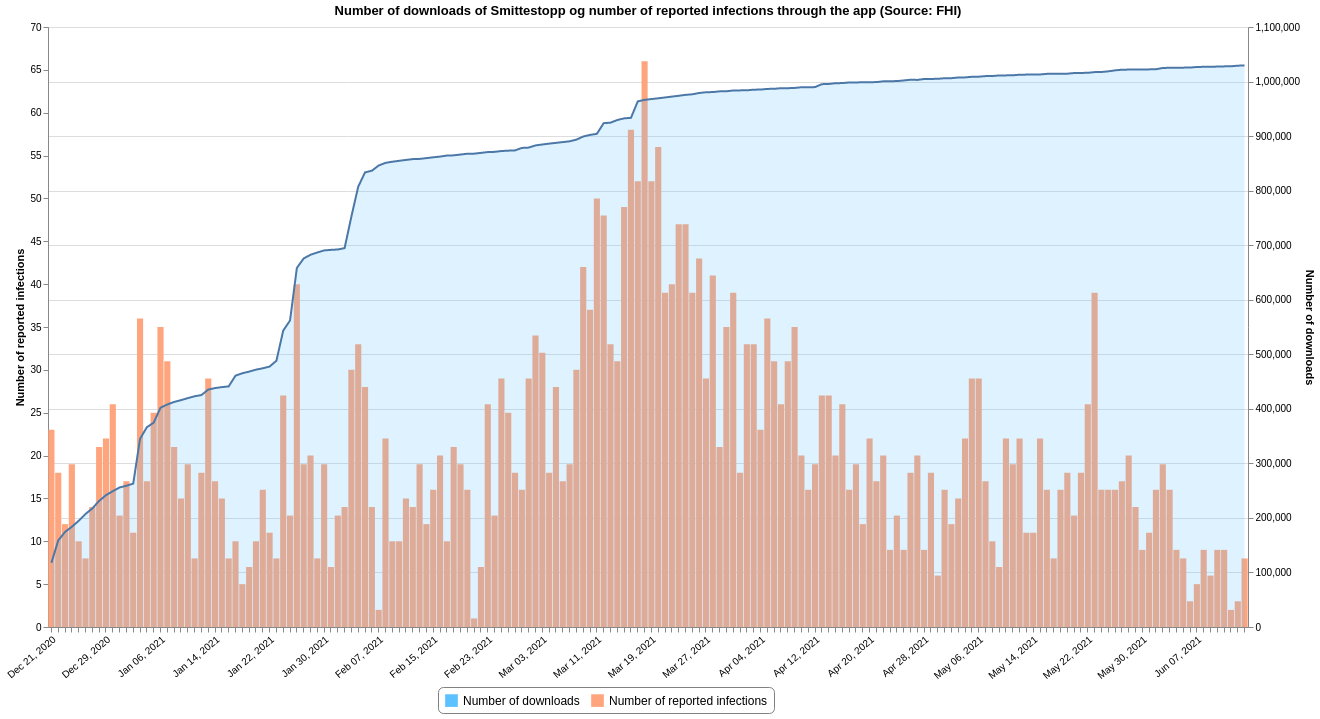
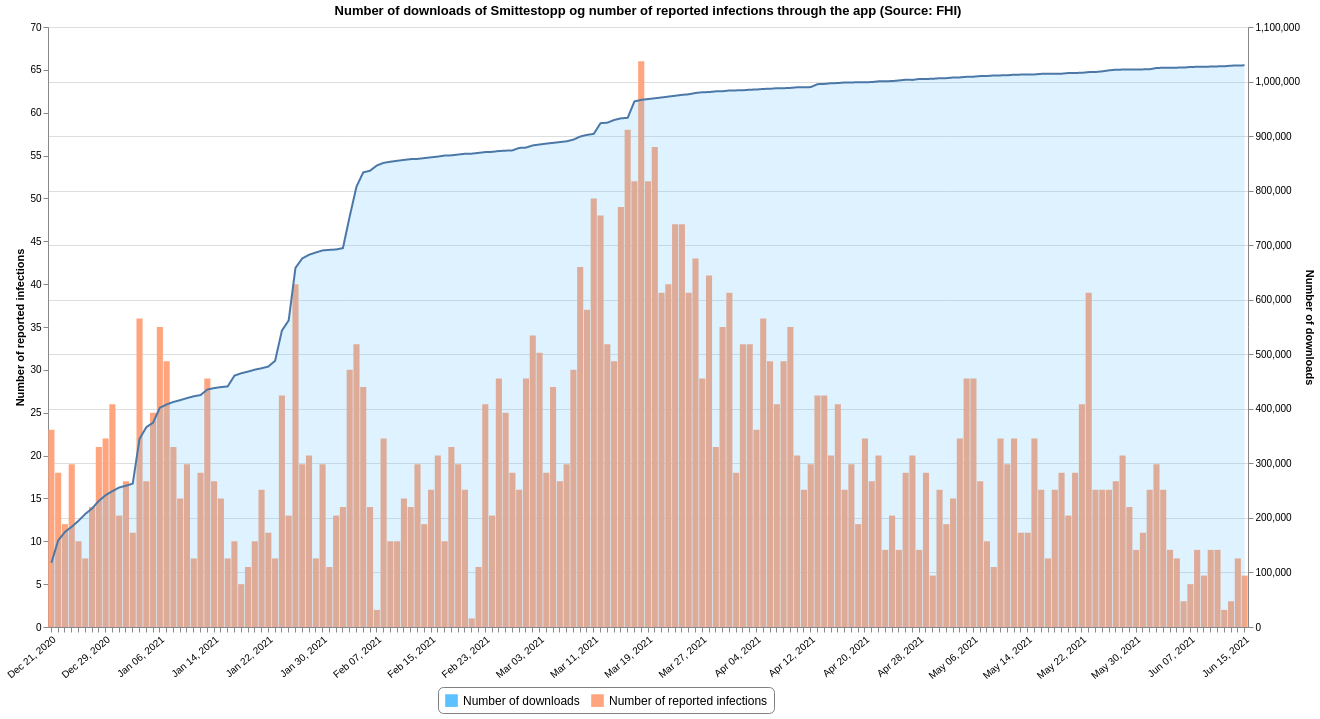
Updated 2021-06-16 09:10

diff --git a/README.md b/README.md
@@ -17,7 +17,7 @@ This repository contains datasets of daily time-series data related to COVID-19 
 |[Tested Lab](#tested_labcsv)|FHI|2021-06-15 13:20:47+02:00|[<center>csv</center>](https://raw.githubusercontent.com/frefrik/c19norge-data/main/data/tested_lab.csv)|[<center>preview</center>](data/tested_lab.csv)|
 |[Transport](#transportcsv)|FHI|2021-06-15 13:20:52+02:00|[<center>csv</center>](https://raw.githubusercontent.com/frefrik/c19norge-data/main/data/transport.csv)|[<center>preview</center>](data/transport.csv)|
 |[Vaccine Doses](#vaccine_dosescsv)|FHI|2021-06-15 13:20:51+02:00|[<center>csv</center>](https://raw.githubusercontent.com/frefrik/c19norge-data/main/data/vaccine_doses.csv)|[<center>preview</center>](data/vaccine_doses.csv)|
-|[Smittestopp](#smittestoppcsv)|FHI|2021-06-15 21:22:26+02:00|[<center>csv</center>](https://raw.githubusercontent.com/frefrik/c19norge-data/main/data/smittestopp.csv)|[<center>preview</center>](data/smittestopp.csv)|
+|[Smittestopp](#smittestoppcsv)|FHI|2021-06-16 09:10:51+02:00|[<center>csv</center>](https://raw.githubusercontent.com/frefrik/c19norge-data/main/data/smittestopp.csv)|[<center>preview</center>](data/smittestopp.csv)|
 <!-- table ends -->
 
 ## Datafiles
